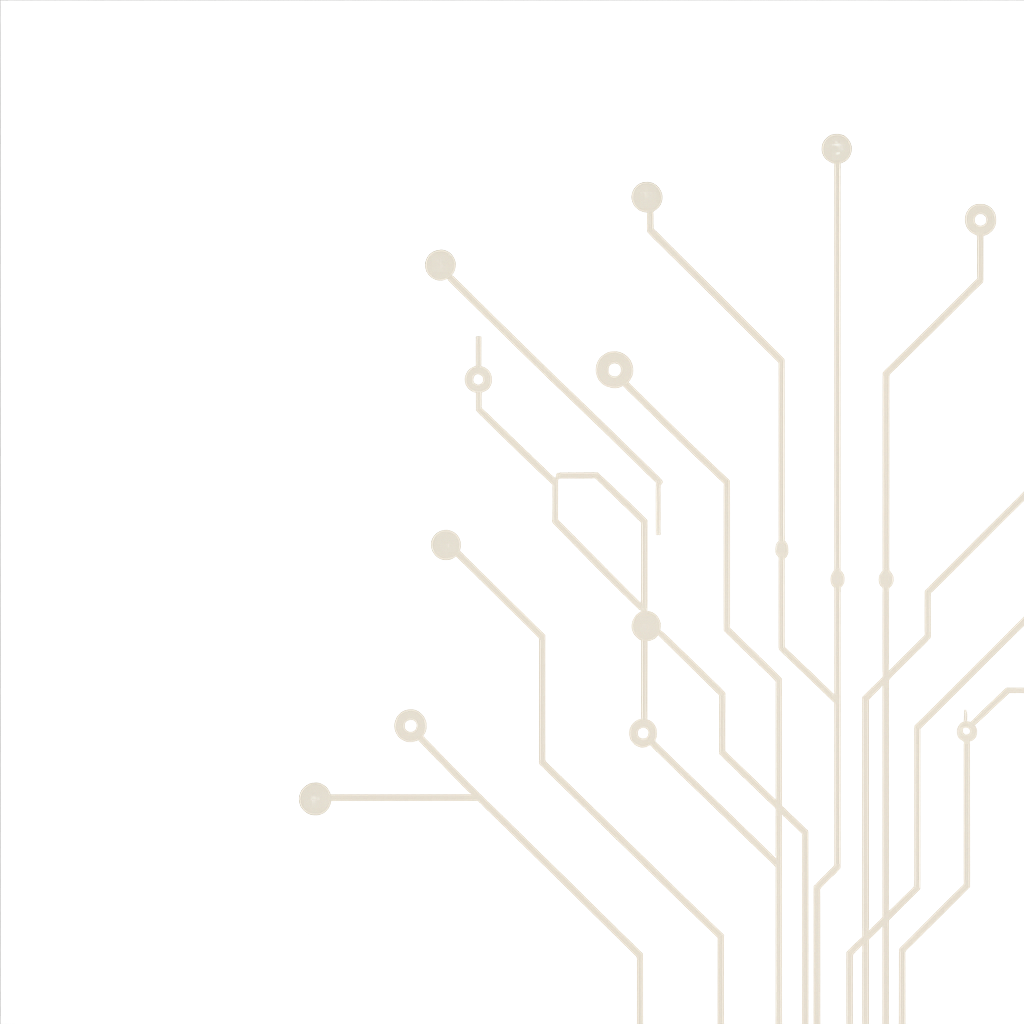
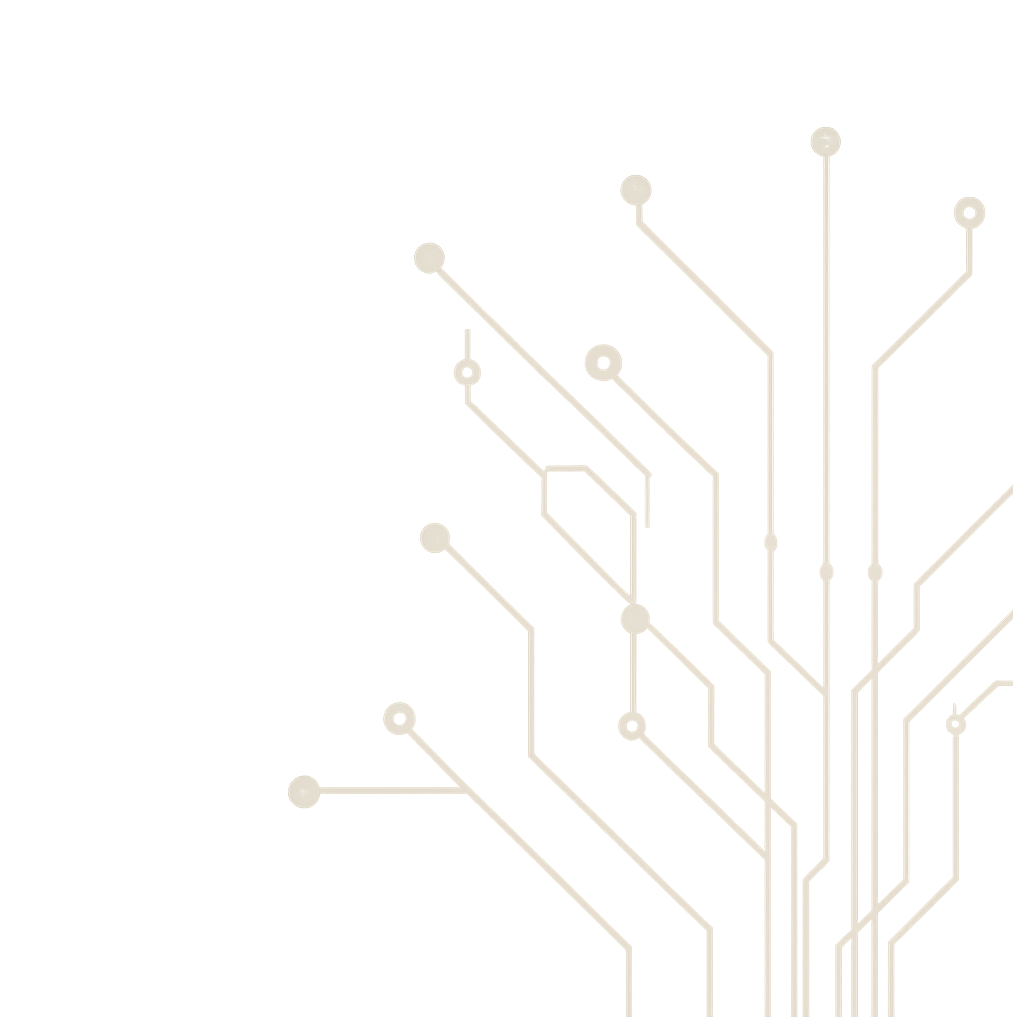
feat(hero): implement hero v1 with layered graphics

diff --git a/media/templates/site/wissenswerk/scss/layout/_hero.scss b/media/templates/site/wissenswerk/scss/layout/_hero.scss
@@ -7,77 +7,116 @@
 }
 
 // =============================================================================
-// Hero Inner
+// Hero Illustration Layer
 // =============================================================================
 
-.ww-hero__inner {
+.ww-hero__illustration {
     position: relative;
     overflow: hidden;
-
-    min-height: 300px;
+    min-height: 340px;
 }
+
+
 // =============================================================================
-// Hero Background Graphic
+// Hero Background (Leiterbahnen)
 // =============================================================================
 
-.ww-hero__inner::before {
+
+.page-home .ww-hero__illustration::before {
 
     content: "";
-
     position: absolute;
     inset: 0;
-
-    background-image: url("/media/templates/site/wissenswerk/images/grafik/grafik_leiterbahn_001.png");
+    background-image: url("../images/grafik/grafik_leiterbahn_001.png");
     background-repeat: no-repeat;
     background-position: right center;
-    background-size: 34% auto;      
-    margin-right: 5rem;
-
+    background-size: 36% auto;
+    margin-right: 6rem;
     opacity: .48;
-
     pointer-events: none;
-
-    z-index: 0;
+    z-index: 1;
 }
 
+.page-leistungen .ww-hero__illustration::before {
+    content: "";
+    position: absolute;
+    inset: 0;
+    background-image: url("../images/grafik/grafik_leiterbahn_001.png");
+    background-repeat: no-repeat;
+    background-position: right center;
+    background-size: 36% auto;
+    margin-right: 6rem;
+    opacity: .48;
+    pointer-events: none;
+    z-index: 1;
+}
 
 // =============================================================================
-// Hero Graphic Polygon
+// Hero Polygon
 // =============================================================================
 
-.ww-hero__inner::after {
+.ww-hero__illustration::after {
 
     content: "";
+    position: absolute;
+    right: 0;
+    bottom: 0;
+    width: 58%;
+    height: 40%;
+    background: var(--ww-color-surface-salbei);
+    clip-path: polygon(
+        8% 100%,
+        100% 100%,
+        100% 25%
+    );
+
+    z-index: 2;
+}
+
+// =============================================================================
+// Hero Book
+// =============================================================================
+
+.ww-hero__book {
 
     position: absolute;
 
-    right: 0;
-    bottom: 0;
+    right: 30%;
+    bottom: 25%;
 
-    width: 58%;
-    height: 42%;
+    width: 320px;
+    height: 260px;
 
-    background: var(--ww-color-surface-salbei);
+    background-image: url("../images/grafik/template-entwicklung.png");
+    background-repeat: no-repeat;
+    background-position: bottom center;
+    background-size: contain;
 
-    clip-path: polygon(
-        10% 100%,
-        100% 100%,
-        100% 20%
-    );
+    z-index: 3;
 
-    z-index: 1;
+    pointer-events: none;
 }
+
 
 // =============================================================================
 // Hero Content
 // =============================================================================
 
-.ww-hero__content {
-    position: relative;
-    z-index: 2;
+.ww-hero__inner {
 
-    max-width: 50%;
+    position: relative;
+
+    z-index: 3;
+
+    max-width: 52%;
+
+    padding-block: var(--ww-space-7);
 }
+
+
+// =============================================================================
+// Typography
+// =============================================================================
 
 .ww-hero__title {
     margin-bottom: var(--ww-space-4);

diff --git a/media/templates/site/wissenswerk/css/template.css b/media/templates/site/wissenswerk/css/template.css
@@ -1075,42 +1075,71 @@ body {
   padding-block: var(--ww-space-6);
 }
 
-.ww-hero__inner {
+.ww-hero__illustration {
   position: relative;
   overflow: hidden;
-  min-height: 300px;
+  min-height: 340px;
 }
 
-.ww-hero__inner::before {
+.page-home .ww-hero__illustration::before {
   content: "";
   position: absolute;
   inset: 0;
-  background-image: url("/media/templates/site/wissenswerk/images/grafik/grafik_leiterbahn_001.png");
+  background-image: url("../images/grafik/grafik_leiterbahn_001.png");
   background-repeat: no-repeat;
   background-position: right center;
-  background-size: 34% auto;
-  margin-right: 5rem;
+  background-size: 36% auto;
+  margin-right: 6rem;
   opacity: 0.48;
   pointer-events: none;
-  z-index: 0;
+  z-index: 1;
 }
 
-.ww-hero__inner::after {
+.page-leistungen .ww-hero__illustration::before {
+  content: "";
+  position: absolute;
+  inset: 0;
+  background-image: url("../images/grafik/grafik_leiterbahn_001.png");
+  background-repeat: no-repeat;
+  background-position: right center;
+  background-size: 36% auto;
+  margin-right: 6rem;
+  opacity: 0.48;
+  pointer-events: none;
+  z-index: 1;
+}
+
+.ww-hero__illustration::after {
   content: "";
   position: absolute;
   right: 0;
   bottom: 0;
   width: 58%;
-  height: 42%;
+  height: 40%;
   background: var(--ww-color-surface-salbei);
-  clip-path: polygon(10% 100%, 100% 100%, 100% 20%);
-  z-index: 1;
+  clip-path: polygon(8% 100%, 100% 100%, 100% 25%);
+  z-index: 2;
 }
 
-.ww-hero__content {
+.ww-hero__book {
+  position: absolute;
+  right: 30%;
+  bottom: 25%;
+  width: 320px;
+  height: 260px;
+  background-image: url("../images/grafik/template-entwicklung.png");
+  background-repeat: no-repeat;
+  background-position: bottom center;
+  background-size: contain;
+  z-index: 3;
+  pointer-events: none;
+}
+
+.ww-hero__inner {
   position: relative;
-  z-index: 2;
-  max-width: 50%;
+  z-index: 3;
+  max-width: 52%;
+  padding-block: var(--ww-space-7);
 }
 
 .ww-hero__title {

diff --git a/templates/wissenswerk/index.php b/templates/wissenswerk/index.php
@@ -15,6 +15,7 @@ use Joomla\CMS\Factory;
 
 $app = Factory::getApplication();
 $wa  = $this->getWebAssetManager();
+$app  = Factory::getApplication();
 
 // =============================================================================
 // Web Assets
@@ -41,6 +42,10 @@ $branding_second = $this->params->get('branding_second');
 $branding_slogan = $this->params->get('branding_slogan');
 
 $branding = trim($branding_first . ' ' . $branding_second);
+
+$menu = $app->getMenu();
+$active = $menu->getActive();
+
 
 // =============================================================================
 // Modulpositionen
@@ -94,7 +99,7 @@ if ($showSidebarLeft && $showSidebarRight) {
 
 </head>
 
-<body>
+<body class="page-<?= $active->alias; ?>">>
     
     <!-- ==============================================================
          Header
@@ -119,8 +124,13 @@ if ($showSidebarLeft && $showSidebarRight) {
     <?php if ($showHero) : ?>
         <section class="ww-hero">
             <div class="ww-container">
-                 <div class="ww-hero__inner">
-                    <jdoc:include type="modules" name="hero" style="xhtml"/>
+                <div class="ww-hero__illustration">  
+
+                    <div class="ww-hero__book"></div>
+                     
+                    <div class="ww-hero__inner">
+                        <jdoc:include type="modules" name="hero" style="xhtml"/>
+                    </div>
                 </div>
             </div>
         </section>
